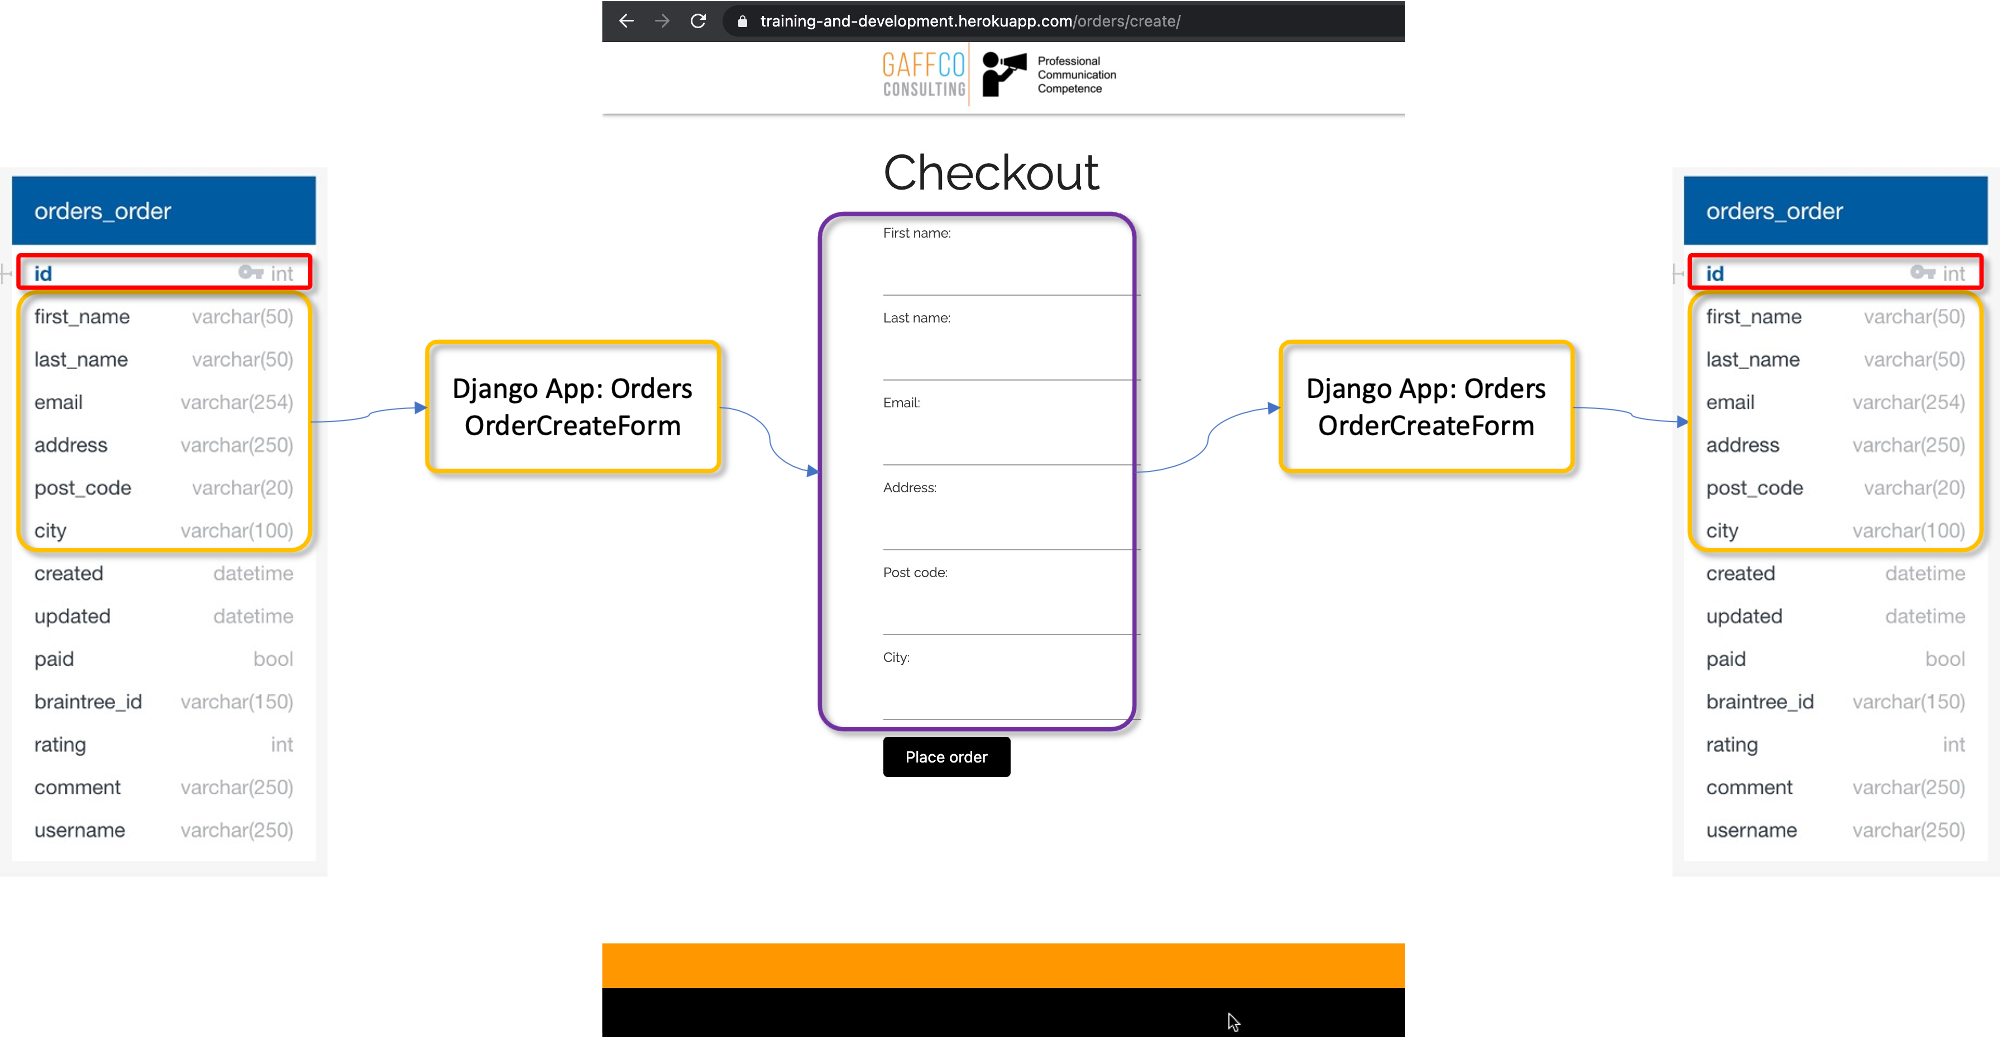
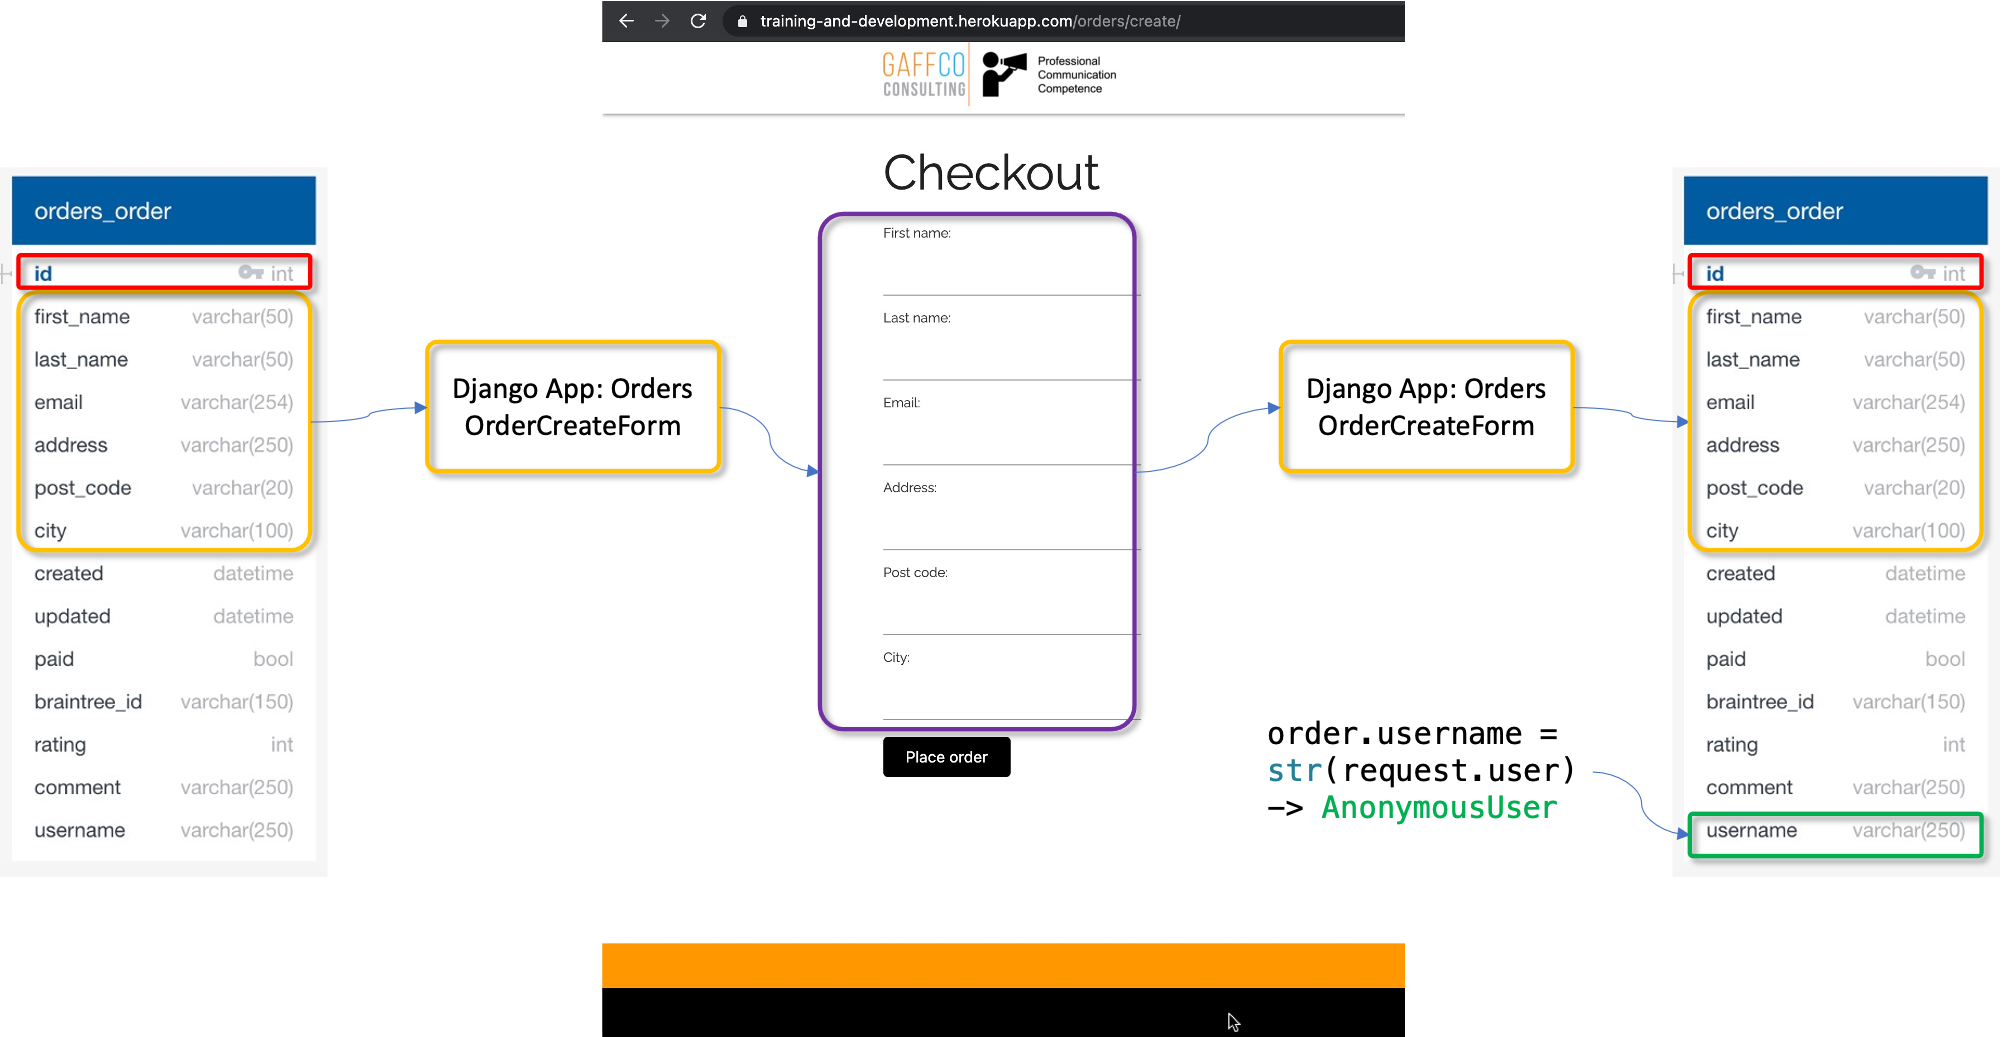
Updated 'base.css', added 'width: 100%;' to the card-content to make the look uniform across all cards despite the different content lengths.
Test:
- Card-content is now uniform across all cards.

Documentation:
- Updated the two "OrderCreateForm" diagrams, adding the username reference.
- Added a text description of the username reference in the Database Schema section.

Changed region(s): [[0.6194, 0.6789, 0.7742, 0.8023], [0.8362, 0.7715, 1.0, 0.8332]]

diff --git a/static/styles/base.css b/static/styles/base.css
@@ -161,6 +161,7 @@ is consistent as is the information in them. */
 .card.large .card-image+.card-content {
     max-height: 60%;
     overflow: visible;
+    width: 100%;
 }
 
 .card.large {

diff --git a/README.md b/README.md
@@ -327,7 +327,7 @@ Please note that the there is no database link between the auth\_user or account
 
 ![Anonymous User Order Create Form](Documentation/AuthenticatedUserOrderCreateForm.png)
 
-The order details are filled in programatically, and added to the orders\_order model and DB Table. Please note that the field names are the same for the User, Profile and Orders forms and tables which makes this a simple approach to take. `id` is the reference used for the tables.
+The order details are filled in programatically, and added to the orders\_order model and DB Table. Please note that the field names are the same for the User, Profile and Orders forms and tables which makes this a simple approach to take. `id` is the reference used for the tables. The username of the authenticated user (`order.username = str(request.user)`) is added to orders\_order DB table and used as a reference when displaying the purchased orders on the user Dashboard.
 
 An anonymous user has no autofilled form fields, however, uses the OrderCreateForm based on the orders\_order model and DB table:
 
